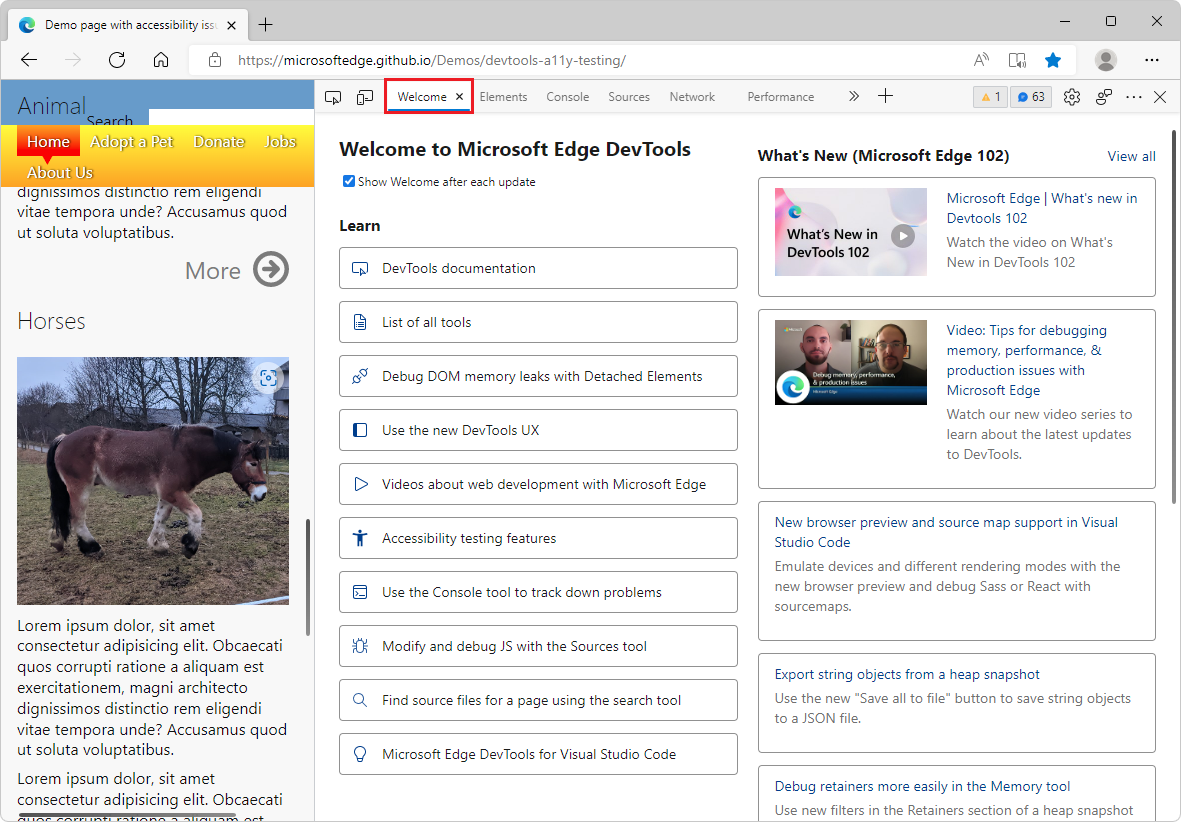
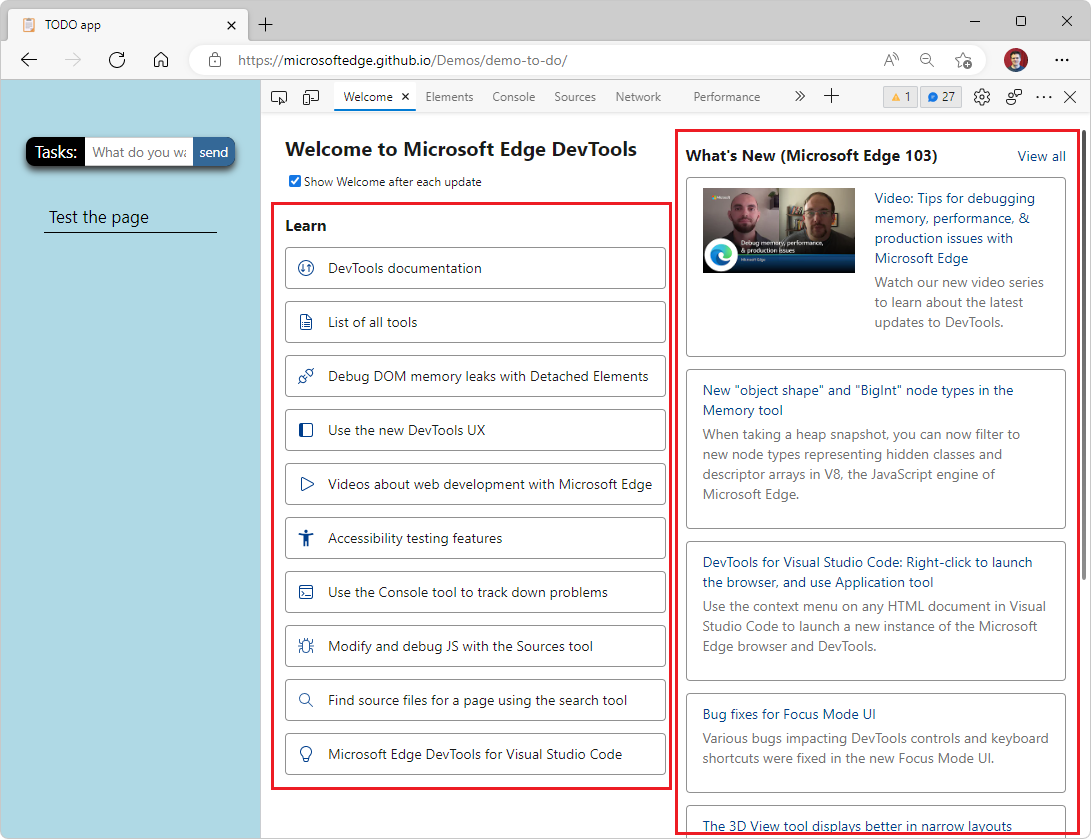
Updated Welcome capture

diff --git a/microsoft-edge/devtools-guide-chromium/whats-new/2022/06/devtools-103.md b/microsoft-edge/devtools-guide-chromium/whats-new/2022/06/devtools-103.md
@@ -9,11 +9,6 @@ ms.date: 06/23/2022
 ---
 # What's New in DevTools (Microsoft Edge 103)
 
-<!-- todo:
-update welcome capture in both dirs
-Experiments 3.5 new checkboxes expls
--->
-
 [!INCLUDE [Microsoft Edge team note for top of What's New](../../includes/edge-whats-new-note.md)]
 
 
@@ -118,7 +113,6 @@ In Microsoft Edge 103, the **Welcome** tool has a new, modern design with improv
 *  In both sections, learn about existing and new web development features through our new video series, [Videos about web development with Microsoft Edge](../../../../dev-videos/index.md).
 
 ![The redesigned Welcome tool.](devtools-103-images/welcome-tool.png)
-<!-- todo: update -->
 
 See also:
 * [Welcome tool](../../../welcome/welcome-tool.md)

diff --git a/microsoft-edge/devtools-guide-chromium/welcome/welcome-tool.md b/microsoft-edge/devtools-guide-chromium/welcome/welcome-tool.md
@@ -21,4 +21,3 @@ The **Welcome** tool opens automatically after each update to Microsoft Edge.
 To prevent the display of the **Welcome** tool after each update, clear the checkbox next to **Open tab after each update** under the **Welcome** tool title.
 
 ![The Welcome tool in Microsoft Edge DevTools.](../media/welcome-tool.png)
-<!-- todo: update -->
